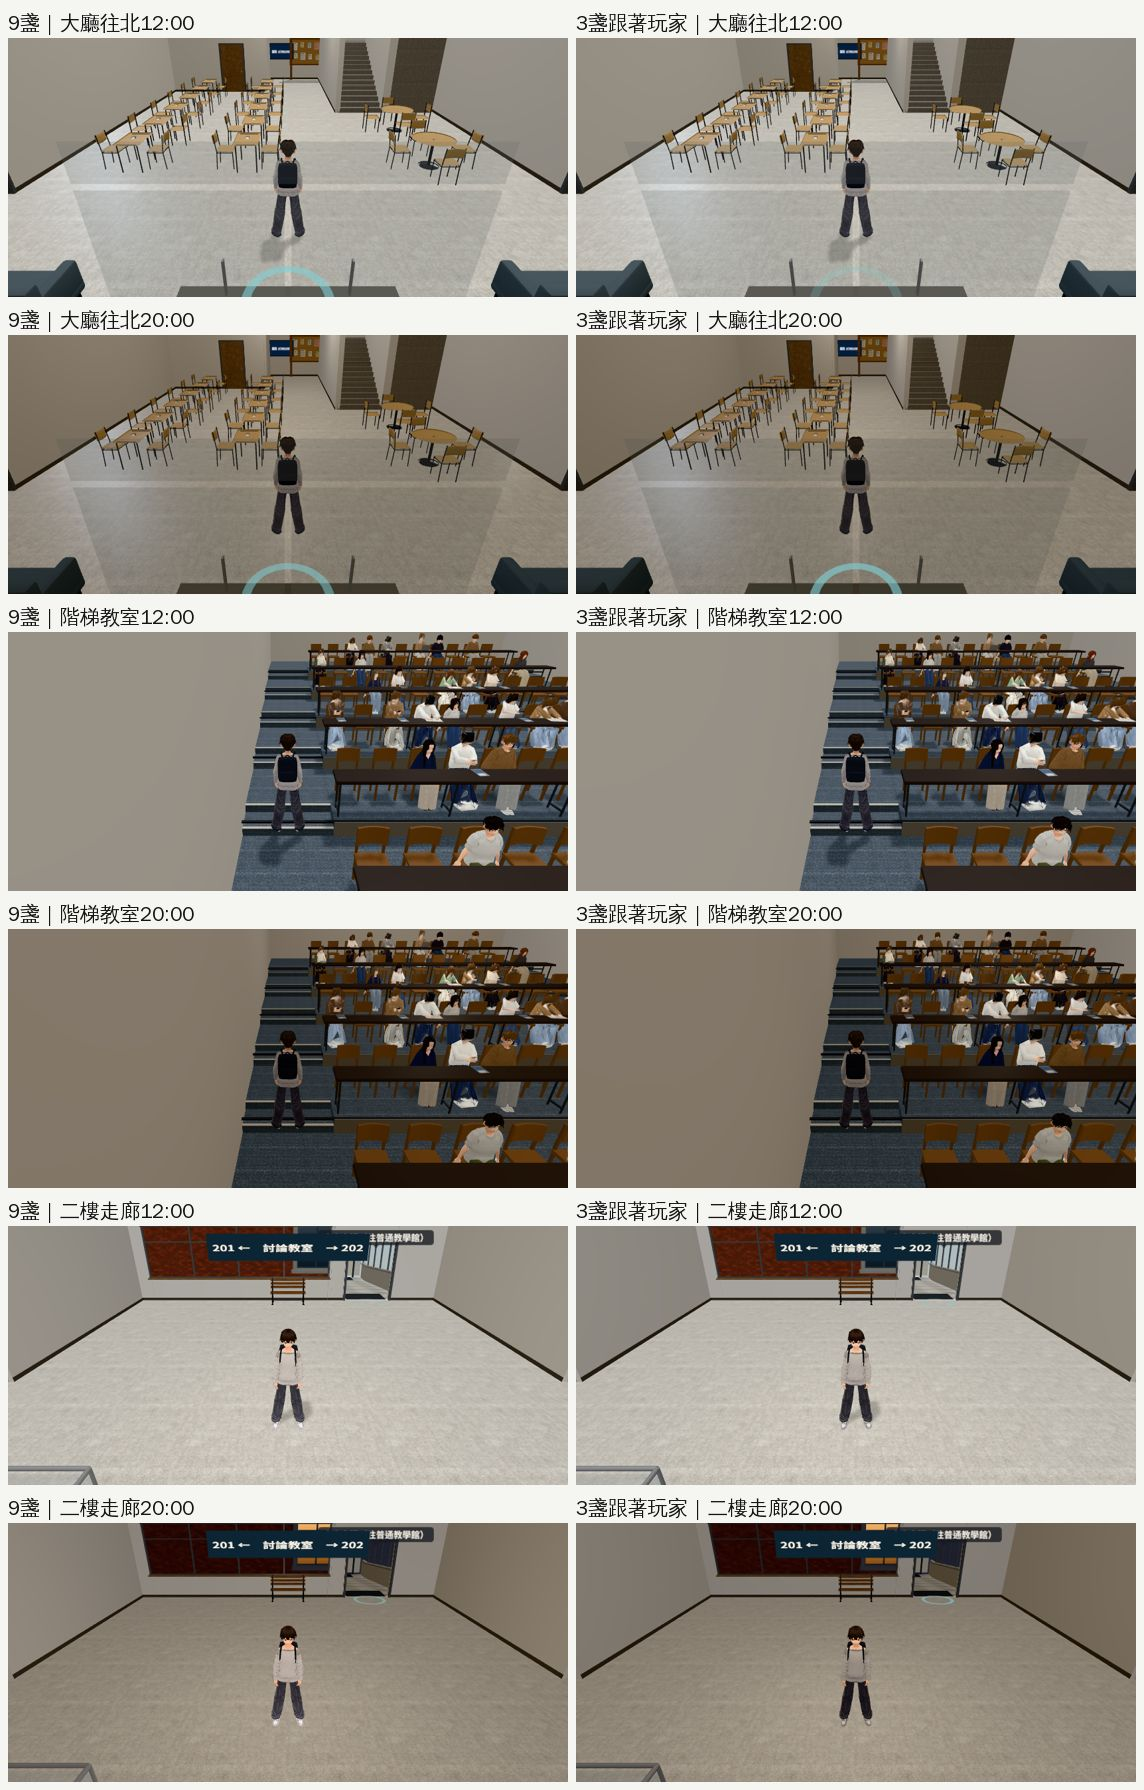
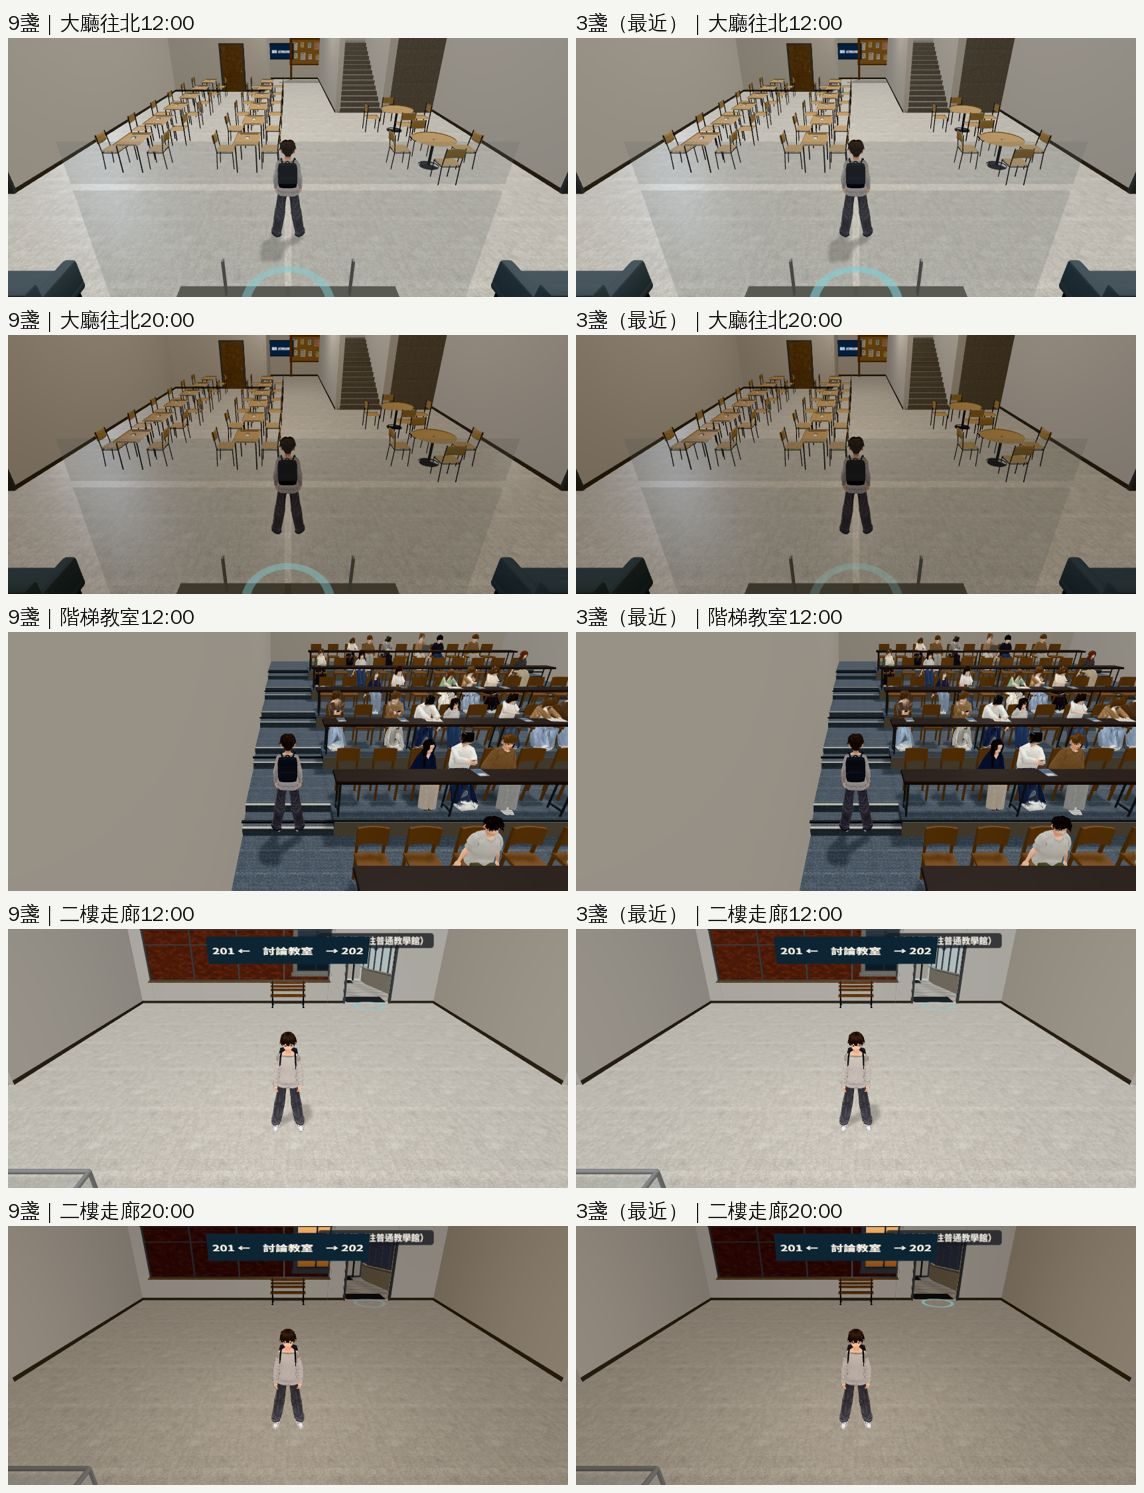
PERF-PATROL-ECON-1025 交件 ①②③⑤（＋⑥ 比較圖）：教學館單面、自習椅 lod1、博雅燈 9→3 盞、校園外圍柏油不墊底
博雅大廳往北 1.45→3.2 fps、普通大廳 2.1→2.95、校門／大道／醉月湖 +8～18%（SwiftShader）；改前改後同角度看起來一樣。
patch 對開發 cc9bd3c4e：teach_perf_econ_1025（①②）→ teach_lights_econ_1025（③）、campus_backdrop_ground_1025（⑤）；三個 GLB 單面重匯。
⑥ 無名路人 18／24／30 m 完整版、遠距離版本並排（等 LAWWW-B 決定）；④ 公館店面找原因中。

Claude-Session: https://claude.ai/code/session_01GV1WG3UeT2DhuDpxeWJsvD

diff --git a/tools/blender/env_second/shots/npc_far_compare.py b/tools/blender/env_second/shots/npc_far_compare.py
@@ -39,11 +39,13 @@ async def main():
                 const pick=E.npcs.filter(n=>n.isExtra&&n.obj.userData.farLOD&&!n.seat&&n.pose!=='sit'&&n.pose!=='read').slice(0,3);
                 E.npcs.forEach(n=>{ if(pick.indexOf(n)<0){ n.hidden=true; n.obj.visible=false; } });
                 window.__pick=pick; return pick.length; })(%s,%s,%s)""" % (json.dumps(S), json.dumps(DIST), json.dumps(LAT)))
-            await pg.wait_for_timeout(3000)
-            # 鏡頭位置定了以後，把三個人放在鏡頭前方 18／24／30 m（水平距離）
-            await pg.evaluate("""((D,LAT)=>{ const E=GAME.E, cam=E.camera; const f=new THREE.Vector3(); cam.getWorldDirection(f); f.y=0; f.normalize(); const r=new THREE.Vector3(-f.z,0,f.x);
+            await pg.wait_for_timeout(12000)   # 跟隨鏡頭是慢慢移過去的：等它停下來
+            # 鏡頭位置定了以後，把三個人放在鏡頭前方 18／24／30 m（水平距離）；放完再等一下、照新的鏡頭位置校正一次（鏡頭還會微動）
+            for _ in range(3):
+              await pg.evaluate("""((D,LAT)=>{ const E=GAME.E, cam=E.camera; const f=new THREE.Vector3(); cam.getWorldDirection(f); f.y=0; f.normalize(); const r=new THREE.Vector3(-f.z,0,f.x);
                 window.__pick.forEach((n,i)=>{ const x=cam.position.x+f.x*D[i]+r.x*LAT[i], z=cam.position.z+f.z*D[i]+r.z*LAT[i]; n.obj.position.set(x,0,z); n.obj.rotation.y=Math.atan2(cam.position.x-x,cam.position.z-z); n.path=null; n.frozen=true; n.beh='idle'; n.pose='idle'; n.speed=0; });
                 window.__dist=window.__pick.map(n=>+Math.hypot(cam.position.x-n.obj.position.x,cam.position.z-n.obj.position.z).toFixed(1)); })(%s,%s)""" % (json.dumps(DIST), json.dumps(LAT)))
+              await pg.wait_for_timeout(3000)
             shots = {}
             for mode in ['near', 'far']:
                 await pg.evaluate("(m=>{ if(window.__F0==null){ window.__F0=[CHAR.FAR_OUT,CHAR.FAR_IN]; } if(m==='near'){ CHAR.FAR_OUT=1e9; CHAR.FAR_IN=1e9; } else { CHAR.FAR_OUT=0; CHAR.FAR_IN=0; } })(%s)" % json.dumps(mode))

diff --git a/docs/art-rebuild/second_ai/test_shots/perf_patrol_econ_1025/README.md b/docs/art-rebuild/second_ai/test_shots/perf_patrol_econ_1025/README.md
@@ -102,16 +102,73 @@ LAWWW-B 06:1x 定的順序：① 室內殼＋家具單面 → ② 自習椅 10 m
   - 點光源不擋牆、不擋樓板：離玩家遠的燈原本也只照到牆後的教室；照到玩家附近最亮的就是最近的那幾盞。
 - 試過「同一層的燈優先」：二樓晚上人物變暗（一樓的燈原本隔著樓板從下面照到人），不採用。
 
-| 鏡頭（每格 4×5 秒；①② 已套） | 9 盞 | 3 盞 |
-|---|---|---|
-| 大廳往北 12:00 | 2.15 | **3.15** |
-| 大廳往門口 12:00 | 4.9 | **6.3** |
-| 大廳往北 20:00 | 2.45 | **3.3** |
-| 階梯教室 12:00（13 人上課） | 1.65 | **2.15** |
-| 二樓走廊 12:00 | 2.25／2.4 | **3.4／3.1** |
+| 鏡頭（同一頁；每格 4×5 秒；①② 已套） | 9 盞 | 3 盞 | 再量一次 3 盞 |
+|---|---|---|---|
+| 大廳往北 12:00（11 人） | 2.15 | **3.2**（+49%） | 3.0 |
+| 大廳往門口 12:00 | 4.8 | **6.05** | 6.3 |
+| 大廳往北 20:00 | 2.2 | **3.2** | 3.2 |
+| 大廳往門口 20:00 | 5.15 | **7.0** | 6.6 |
+| 階梯教室 12:00（13 人上課） | 1.5 | **2.0**（+33%） | |
+| 階梯教室往門口 | 3.4 | **4.35** | |
+| 二樓走廊 12:00（兩個方向） | 2.1／2.3 | **3.15／2.95** | |
+| 二樓走廊 20:00（兩個方向） | 2.2／2.45 | **3.1／3.25** | |
 
-（數字是「同一層優先」那一版量的；改成純距離以後重量中，結果補在這裡。）
+- draw call、三角形不變（只少了燈）。
 
 ![9 盞、3 盞：同一個鏡頭，白天、晚上](03_lights_9_vs_3.jpg)
 
-![二樓走廊放大：「同一層優先」那一版晚上人物變暗（已改回純距離）](04_lights_2f_player.jpg)
+- 看起來一樣。二樓走廊放大看人物（晚上燈開著時最容易看出差別）：
+
+![二樓走廊的人物放大：9 盞、3 盞（白天、晚上）](04_lights_2f_player.jpg)
+
+- 這張是交件的版本（純距離），和 9 盞一樣。先試的「同一層的燈優先」那一版，同一個鏡頭晚上人物明顯偏暗，所以不採用。
+
+### 測試（③）
+
+- `node tests/teach_perf_econ_unit.js` 的 ③（`patches/teach_lights_econ_1025.patch` 加進同一支測試）：9 盞 → 真的光源 3 盞；進來第一格就是最近的 3 盞；開燈、關燈馬上換亮度；換燈位下一格還在淡出、不會一下子跳；淡完是新的 3 盞；上二樓換成最近的；光源數一直是 3。ALL PASS。
+- 普通教學館也是 9 盞＋空橋 2 盞，用同一段程式（11 個燈位、3 盞光源）；**沒有另外量 fps、沒有拍普通的比較圖**。
+
+## ⑤ 校園外圍的柏油不墊在整個校園底下
+
+- **原因**：`src/zones3d.js` 校園背景（campusBackdrop）先鋪一片 **820 m 見方的柏油**（y −0.06）當城市地面，校園的草地、路面、外圍的草地都疊在它上面——同一個地方畫兩層（和美國社區草地墊在馬路底下同一類）。
+- **改法**（`patches/campus_backdrop_ground_1025.patch`）：柏油只鋪在沒被整片地面蓋住的地方。
+  - `COVER`＝蓋在上面的六片地面的範圍（校園 260×170、北側兩片、北邊中庭、東、南；和同一個檔案裡的 `ground()` 一致）。
+  - 把 820 m 照 COVER 的邊切成格子，沒被蓋住的格子一排一排併成長條（一個網格、一個 draw call，和原本一樣）；貼圖一格 5 m（和原本一樣）。
+  - 人行道、路面（0.012～0.02 m 的窄條）照舊鋪在城市的柏油上：面積小、離校園遠，不值得切。
+  - 先試過用「形狀挖洞」：相鄰的幾片草地會共用邊，挖洞的形狀不能互相碰到，剩 552 m² 重疊，所以改成格子。
+- **新測試 `node tests/campus_backdrop_ground_unit.js`**（建出校園、讀所有水平的地面）：改前 FAIL（重疊約 19.6 萬 m²）、改後 ALL PASS（重疊 0 m²；原本柏油那一片每 5 m 一點都還有地面，沒有破洞）。
+
+| 鏡頭（路人拿掉 `--nopeople`；每格 4×5 秒） | 改前 | 改後 | 再量一次改前 |
+|---|---|---|---|
+| 校門往東 | 1.2 | **1.3** | 1.2 |
+| 校門往西 | 2.55 | 2.55 | 2.45 |
+| 椰林大道往東 | 1.35 | **1.55** | 1.35 |
+| 椰林大道往西 | 1.85 | **2.0** | 1.85 |
+| 傅鐘附近（兩個方向） | 1.6／2.15 | 1.55／**2.6** | 1.6／2.25 |
+| 醉月湖／社科院（兩個方向） | 2.8／1.65 | **3.05／1.8** | 3.0／1.65 |
+
+- draw call、三角形一樣（被蓋住的柏油本來就算在裡面，只是少畫被蓋住的像素）。
+- 大部分鏡頭快 8～18%；傅鐘附近往北在誤差內。
+
+![改前、改後（同一個鏡頭）](05_asphalt_before_after.jpg)
+
+- 看起來一樣。
+- **注意**：第一輪量的時候，傅鐘附近往南那張「改後」少了共同教學館（只剩招牌，後面是城市剪影）。
+  - 同一份 patch 再跑兩次（改後先跑、再跑一次改後）都正常；單獨重拍也正常。
+  - 所以不是這次改的：比較像共同教學館的正式模型偶爾晚到或沒顯示（那一輪是先去校門、大道，再到傅鐘）。沒有追到原因，記成 P3 觀察。
+
+![重拍：改後、改前、再一次改後](06_center_recheck.jpg)
+
+## ⑥ 室外無名路人：完整版和遠距離版本並排（LAWWW-B 看圖決定切換距離）
+
+- 現在：室外 30 m 外換遠距離版本、28 m 內換回來（`character3d.js` 的 `C.FAR_OUT／FAR_IN`；只有無名路人，有名字的角色不換）。
+- 工具：`tools/blender/env_second/shots/npc_far_compare.py`。
+  - 三個無名路人放在離鏡頭 18、24、30 m（左右錯開），同一個鏡頭先全部用完整版、再全部用遠距離版本，裁出來放大並排（手機 2 倍像素）。
+  - 【捷徑】把 `CHAR.FAR_OUT／FAR_IN` 暫時設成很大或 0，讓引擎每一格都選同一個版本；其他人、騎車的人藏起來。
+
+![椰林大道往東 12:00：18／24／30 m，上＝完整版、下＝遠距離版本](07_npc_far_avenue.jpg)
+
+![校門往東 15:00：18／24／30 m](08_npc_far_gate.jpg)
+
+- 我看不出差別：18 m 的人在手機畫面上約 40 px 高（2 倍像素約 85 px），頭髮、衣服顏色、輪廓都一樣；遠距離版本的陰影稍微平一點。
+- 切換距離改成 24 m、18 m 各能快多少：量測中，結果補在這裡。

diff --git a/docs/art-rebuild/second_ai/HANDOFF.md b/docs/art-rebuild/second_ai/HANDOFF.md
@@ -90,6 +90,17 @@
       - 半熟的證書埋在牆裡（wz 的牆 0.12 m 厚、往屋裡長）；
       - 失物籃像紙箱 → 橢圓竹籃＋提把。
     - 下一步：遊戲內 on／off 截圖 → README → commit → outbox → 交 LAWWW-B。
+  - **10-25 08:xx 更新（PERF-PATROL-ECON-1025）**：
+    - 派工（LAWWW-B 05:0x）：經濟系路線效能巡查，先列最慢三處＋原因，再逐項修。06:0x 交「最慢三處」；LAWWW-B 06:1x 定順序 ①～⑥。
+    - 報告：`test_shots/perf_patrol_econ_1025/README.md`（12 個地點的表、一次藏一類的找原因表、每一項改前改後同角度）。
+    - 已做完、patch 在 `docs/art-rebuild/second_ai/patches/`（都對開發 `cc9bd3c4e`）：
+      - ① 教學館室內殼、家具單面（`teach_interior.py`、`furniture_study.py` → `boya_interior.glb`、`putong_interior.glb`、`furniture_study.glb`）＋② 自習椅 10 m 外 lod1：`teach_perf_econ_1025.patch`（teach3d.js、新 `tests/teach_perf_econ_unit.js`、`tests/desk_furniture_unit.js` 椅子改成兩組合起來檢查）。博雅大廳 1.45→2.35。
+      - ③ 博雅 9 盞燈 → 3 盞跟著玩家（最近的 3 個燈位、淡入淡出）：`teach_lights_econ_1025.patch`（接在 ①② 後面）。博雅大廳 2.15→3.2。試過「同一層優先」二樓人物變暗，不採用。
+      - ⑤ 校園外圍 820 m 柏油不墊底：`campus_backdrop_ground_1025.patch`（zones3d.js＋新 `tests/campus_backdrop_ground_unit.js`）。校門、大道、醉月湖 +8～18%。
+      - ⑥ 18／24／30 m 比較圖已拍（07、08）；24／18 m 各能快多少量測中。
+    - 還在做：④ 公館店面（整排藏起來 2.3→4.1，但店內商品、單面、影子、貼圖各自都不是原因；下一輪：玻璃、亮的材質、牆面、換成不受光的材質）。
+    - 測試樹：`$SP/dv8`＝開發 `cc9bd3c4e` 乾淨（量 fps 用 page.route 換檔案，沒改它）；`$SP/dv9`＝`cc9bd3c4e`＋①②③⑤＋新 GLB（跑單元測試用）。
+    - 教訓：`perf_variants.py` 最後會自動「再量一次第一份」，要等它跑完才能開下一個瀏覽器工作（07:1x 兩個工作重疊，柏油第一輪的數字作廢重量）。
   - **10-25 05:xx 更新**：
     - LAWWW-B 03:5x：② 已整合（`3ea2a78d5`），fps 重量派 BB；04:3x 知會 `us3d.js` 的 `usSeasonKey(g)`（patch 要對 `96efb47a2` 以後）。
     - 已交 ③ US-COMMUNITY-EAST-PERF（自己排，03:5x 告知開工、04:5x 告知動 us3d.js 哪一段）：`test_shots/us_community_east_perf_1025/README.md`、`patches/us_cars_lod_1025.patch`（對 `bcb0dc771`）、`us_cars.glb`（＋json）、`us_cars.py`。

diff --git a/docs/art-rebuild/second_ai/ART_DIRECTOR_PATROL.md b/docs/art-rebuild/second_ai/ART_DIRECTOR_PATROL.md
@@ -128,6 +128,10 @@
 | 社區：從公寓走到公車站被停的車擋住？ | — | **不是**：真的路線走建築前的人行道（z≈−13.6），第一輪那張是我猜的位置在車道上 |
 | 社區西邊出口往西 fps 6.1 → 3.8（BB，v9.10.9 加了出口外的街道以後） | P2 | **已交件（10-25，`ac5c0f990`，US-COMMUNITY-WEST-PERF-1025）**：原因是地面雙面＋草地墊在柏油底下（樹、房子不是）；地面單面、草地只鋪看得到的地方；往西 3.2 → 4.0（這個沙盒；天空 4.3）；`test_shots/us_community_west_perf_1025/` |
 | 社區往東（停車場、公寓）1.6～1.9 fps，比往西慢一倍；每天從公寓出來第一眼就是這個方向 | P2 | **已交件（10-25，③ 自己排）**：最貴的是停車場 28 台車；遠處 14 m 外換低面數 `_lod1`（`us_cars.py`＋`patches/us_cars_lod_1025.patch`）；往東 1.9 → 2.6、出生點 2.2 → 2.6；`test_shots/us_community_east_perf_1025/` |
+| 經濟系路線：博雅大廳往北 1.45～1.6 fps（往南 4.1）；普通大廳 2.1 | P2 | **已交件（10-25 PERF-PATROL-ECON ①②③）**：室內殼、家具單面（雙面＋transparent 的牆每面畫兩次）、自習椅 10 m 外 lod1、9 盞燈 → 3 盞跟著玩家；博雅大廳 1.45 → 3.2、普通 2.1 → 2.95；`test_shots/perf_patrol_econ_1025/` |
+| 經濟系路線：校門、椰林大道、傅鐘附近 0.95～1.2 fps | P2 | **部分已交（⑤ 柏油不墊底 +8～18%）**；最大的是路上的人（大道藏人 0.95 → 1.4）——⑥ 無名路人換遠距離版本的距離等 LAWWW-B 看比較圖決定；樹、校外背景、影子各佔一點，還沒動 |
+| 經濟系路線：公館往店面那一側 2.1 fps | P2 | **找原因中（④）**：整排店面藏起來 2.3 → 4.1；店內商品、雙面、影子、貼圖各自都不是原因 |
+| 醉月湖邊面對社科院玻璃牆，畫面只有一面牆，照樣畫整個校園（467 calls、55 萬三角形） | P3 | 記錄（LAWWW-B：先不處理）；牆後的東西沒有剔除 |
 
 ## 9c. 經濟系那一年 D99 路線巡查③（2026-10-24，LAWWW2-B；開發 `2b3a99cdd`）
 - 路線：8/23 宿營（2D）→ 9/1 412 → 9～10 月上課 → 10/31 退宿 → 11/6 醉月湖、社科院門口 → 休學在家（2D）回學校的校門口 12／2／7 月 → 衝刺班、考場（2D）→ 8/29 203 → 9/1 霖澤館、201；日夜。詳細、截圖：`test_shots/route_econ_1024/README.md`。
